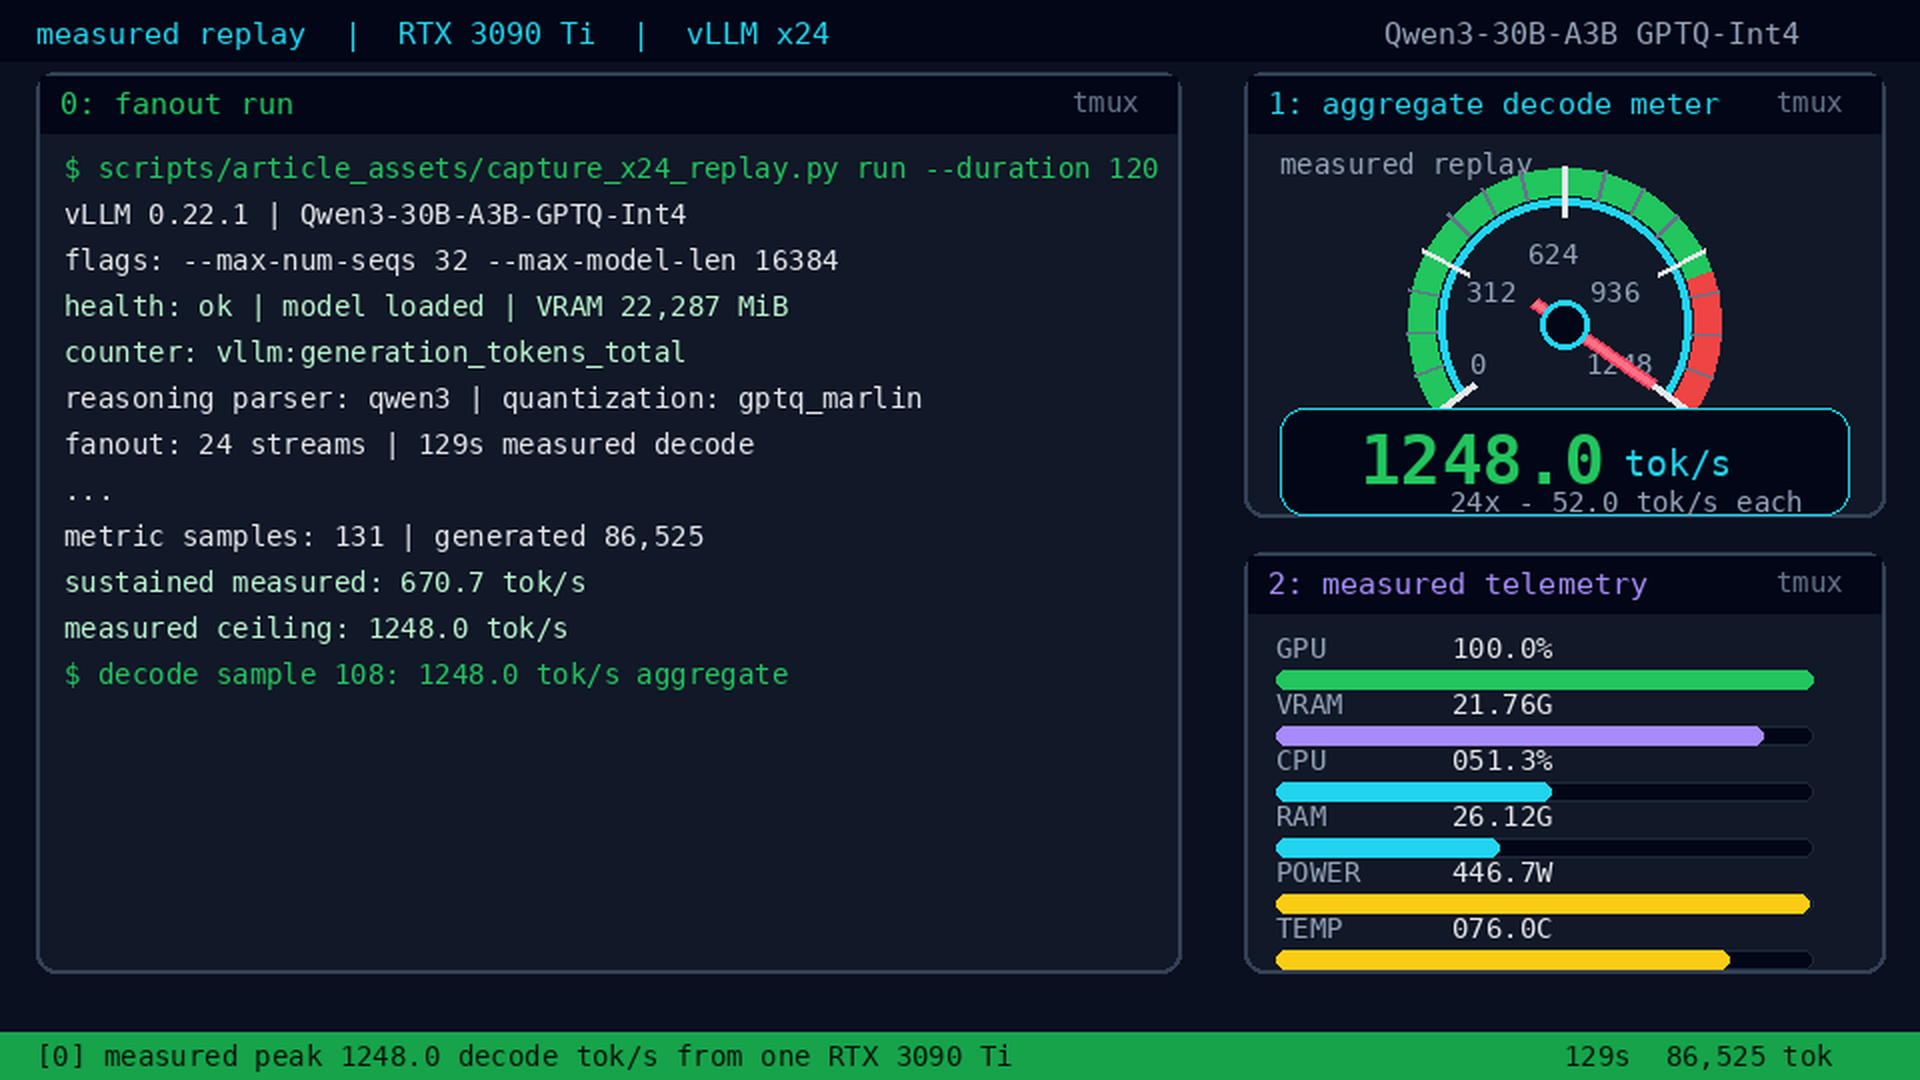
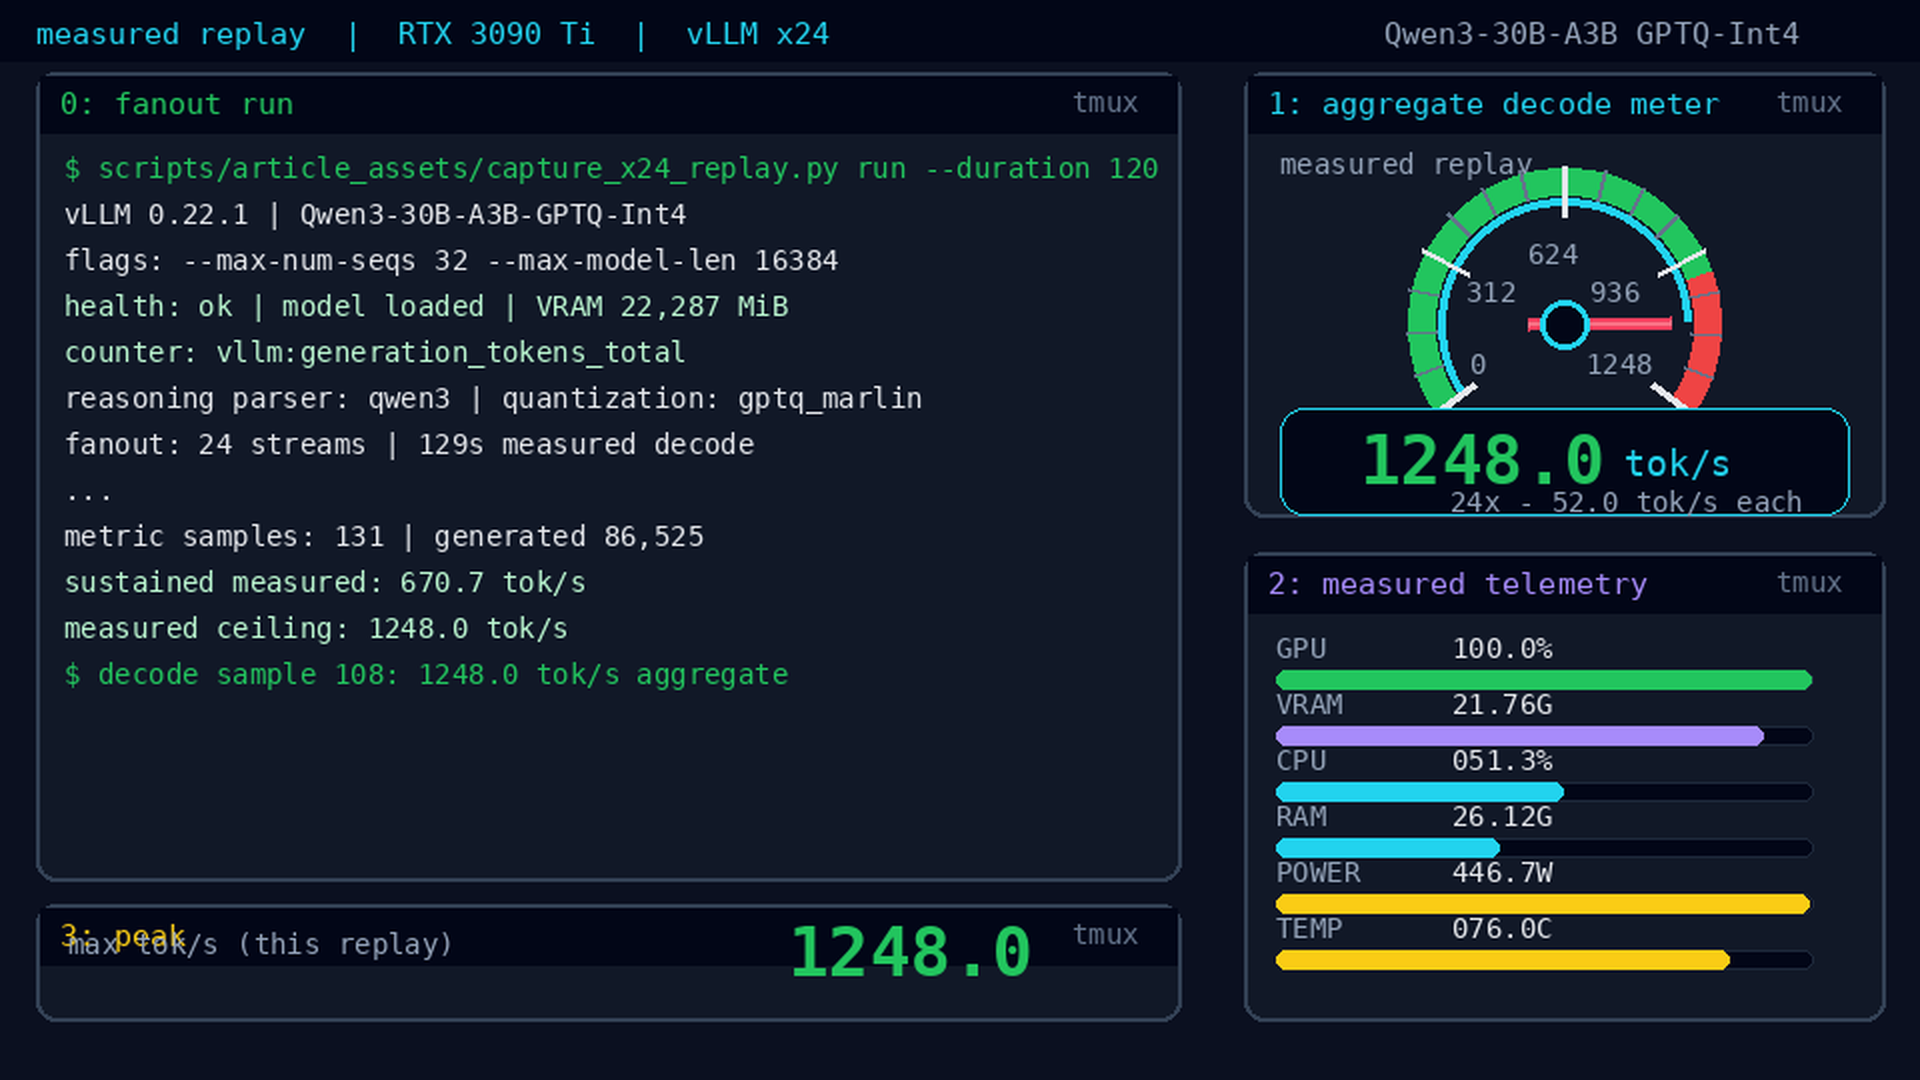
feat: smooth eased tachometer motion, running-max pane, no tmux footer
Critically-damped needle/bar easing between 1 Hz samples (4 sub-frames per
measured second, 30fps mp4, 15fps gif re-encoded at 720p); digital readout
and log line step in lockstep on raw samples only; new bottom-left peak pane
tracks the running measured max; caption discloses pacing and easing.

diff --git a/scripts/article_assets/render_800_toks_assets.py b/scripts/article_assets/render_800_toks_assets.py
@@ -137,10 +137,14 @@ def draw_meter(
     frame: int,
     cap: float,
     streams: int,
+    readout_tps: float | None = None,
 ) -> None:
+    # tps drives the needle (eased display value); readout_tps is the measured
+    # sample printed in the digital readout, so printed numbers are never eased.
     x1, y1, x2, y2 = box
     cap = max(cap, 1.0)
     tps = min(tps, cap)
+    readout_val = min(cap, tps if readout_tps is None else readout_tps)
 
     cx, cy = (x1 + x2) // 2, y1 + 126
     r = min((x2 - x1) // 3, 78)
@@ -181,12 +185,22 @@ def draw_meter(
     draw.line([tail_x, tail_y, nx, ny], fill="#fb7185", width=3)
     draw.ellipse([cx - 12, cy - 12, cx + 12, cy + 12], fill="#020617", outline=CYAN, width=3)
 
-    readout = f"{tps:05.1f}"
+    readout = f"{readout_val:05.1f}"
     read_box = [x1 + 18, y1 + 168, x2 - 18, y1 + 221]
     draw.rounded_rectangle(read_box, radius=12, fill="#020617", outline="#22d3ee66", width=1)
     draw.text((x1 + 58, y1 + 174), readout, font=F34B, fill=GREEN)
     draw.text((x1 + 190, y1 + 185), "tok/s", font=F18, fill=CYAN)
-    draw.text((x1 + 103, y1 + 207), f"{streams}x - {tps / streams:04.1f} tok/s each", font=F14, fill=MUTED)
+    draw.text((x1 + 103, y1 + 207), f"{streams}x - {readout_val / streams:04.1f} tok/s each", font=F14, fill=MUTED)
+
+
+def draw_max_pane(draw: ImageDraw.ImageDraw, box: tuple[int, int, int, int], run_max: float, is_new: bool) -> None:
+    # Running maximum of the measured per-second samples seen so far in the replay.
+    x1, y1, x2, y2 = box
+    draw.text((x1 + 16, y1 + 12), "max tok/s (this replay)", font=F14, fill=MUTED)
+    color = YELLOW if is_new else GREEN
+    draw.text((x2 - 196, y1 + 4), f"{run_max:06.1f}", font=F34B, fill=color)
+    if is_new:
+        draw.text((x2 - 40, y1 + 12), "NEW", font=F14, fill=YELLOW)
 
 
 def ease(t: float) -> float:
@@ -250,7 +264,14 @@ def draw_metric_bar(
     draw.rounded_rectangle([bx, by, bx + int(bw * max(0, min(frac, 1))), by + bh], radius=4, fill=color)
 
 
-def draw_telemetry(draw: ImageDraw.ImageDraw, box: tuple[int, int, int, int], row: dict[str, float | str]) -> None:
+def draw_telemetry(
+    draw: ImageDraw.ImageDraw,
+    box: tuple[int, int, int, int],
+    row: dict[str, float | str],
+    eased: dict[str, float] | None = None,
+) -> None:
+    # Text always shows the measured sample; the bar widths glide on the eased
+    # display values so motion is smooth without ever printing an unmeasured number.
     x1, y1, _x2, _y2 = box
     gpu = float(row["gpu_util_pct"])
     vram_mib = float(row["vram_used_mib"])
@@ -258,13 +279,14 @@ def draw_telemetry(draw: ImageDraw.ImageDraw, box: tuple[int, int, int, int], ro
     temp = float(row["temp_c"])
     cpu = float(row["cpu_util_pct"])
     ram = float(row["ram_used_gib"])
+    e = eased or {"gpu": gpu, "vram": vram_mib, "power": power, "temp": temp, "cpu": cpu, "ram": ram}
     metrics = [
-        ("GPU", f"{gpu:05.1f}%", gpu / 100, GREEN),
-        ("VRAM", f"{vram_mib / 1024:05.2f}G", vram_mib / 24564, PURPLE),
-        ("CPU", f"{cpu:05.1f}%", cpu / 100, CYAN),
-        ("RAM", f"{ram:05.2f}G", ram / 62.68, CYAN),
-        ("POWER", f"{power:05.1f}W", power / 450, YELLOW),
-        ("TEMP", f"{temp:05.1f}C", temp / 90, GREEN if temp < 75 else YELLOW),
+        ("GPU", f"{gpu:05.1f}%", e["gpu"] / 100, GREEN),
+        ("VRAM", f"{vram_mib / 1024:05.2f}G", e["vram"] / 24564, PURPLE),
+        ("CPU", f"{cpu:05.1f}%", e["cpu"] / 100, CYAN),
+        ("RAM", f"{ram:05.2f}G", e["ram"] / 62.68, CYAN),
+        ("POWER", f"{power:05.1f}W", e["power"] / 450, YELLOW),
+        ("TEMP", f"{temp:05.1f}C", e["temp"] / 90, GREEN if temp < 75 else YELLOW),
     ]
     y = y1 + 40
     for label, value, frac, color in metrics:
@@ -275,9 +297,10 @@ def draw_telemetry(draw: ImageDraw.ImageDraw, box: tuple[int, int, int, int], ro
 def render_demo(lines: list[str]) -> None:
     # 16:9, small enough for X/Twitter GIF upload while still readable in article.
     w, h = 960, 540
-    left = (18, 36, 590, 486)
+    left = (18, 36, 590, 440)
+    maxbox = (18, 452, 590, 510)
     rtop = (622, 36, 942, 258)
-    rbot = (622, 276, 942, 486)
+    rbot = (622, 276, 942, 510)
 
     series = load_replay_series()
     summary = load_capture_summary()
@@ -326,36 +349,67 @@ def render_demo(lines: list[str]) -> None:
 
     frames: list[Image.Image] = []
     n = len(series)
+    # Motion: SUB eased sub-frames per measured second. The needle and telemetry
+    # bars follow each new sample with a critically-damped chase (convex blend of
+    # measured values - they can never exceed the running measured range). All
+    # printed numbers step on the raw samples only.
+    SUB = 4
+    EASE_NEEDLE = 0.30
+    EASE_BARS = 0.22
+    display_tps = max(0.0, min(cap, float(series[0]["decode_tok_s"])))
+    eased_tel = {
+        "gpu": float(series[0]["gpu_util_pct"]),
+        "vram": float(series[0]["vram_used_mib"]),
+        "power": float(series[0]["power_w"]),
+        "temp": float(series[0]["temp_c"]),
+        "cpu": float(series[0]["cpu_util_pct"]),
+        "ram": float(series[0]["ram_used_gib"]),
+    }
+    run_max = 0.0
+    poster_master_index = {}
     for f in range(n):
         phase = f / (n - 1)
         row = series[f]
-        # The meter is capped to the measured ceiling from this capture.
-        tps = max(0, min(cap, float(row["decode_tok_s"])))
-
-        im = Image.new("RGB", (w, h), BG)
-        dr = ImageDraw.Draw(im)
-        dr.rectangle([0, 0, w, 30], fill="#020617")
-        dr.text((18, 8), "measured replay  |  RTX 3090 Ti  |  vLLM x24", font=F15, fill=CYAN)
-        dr.text((w - 268, 8), "Qwen3-30B-A3B GPTQ-Int4", font=F15, fill=MUTED)
-
-        draw_pane(dr, left, "0: fanout run", GREEN)
-        draw_pane(dr, rtop, "1: aggregate decode meter", CYAN)
-        draw_pane(dr, rbot, "2: measured telemetry", PURPLE)
+        sample_tps = max(0, min(cap, float(row["decode_tok_s"])))
+        new_max = sample_tps > run_max
+        run_max = max(run_max, sample_tps)
+        targets = {
+            "gpu": float(row["gpu_util_pct"]),
+            "vram": float(row["vram_used_mib"]),
+            "power": float(row["power_w"]),
+            "temp": float(row["temp_c"]),
+            "cpu": float(row["cpu_util_pct"]),
+            "ram": float(row["ram_used_gib"]),
+        }
 
         n_worker = int(max(0, (phase - 0.18)) / 0.70 * len(workers))
         n_worker = max(0, min(len(workers), n_worker))
         logs = base_log + workers[:n_worker]
         if 0.14 < phase < 0.95:
-            logs.append(f"$ decode sample {f + 1:03d}: {tps:05.1f} tok/s aggregate")
-        draw_text_lines(dr, left, logs, start_y=40, font=F14, max_lines=18)
+            logs.append(f"$ decode sample {f + 1:03d}: {sample_tps:05.1f} tok/s aggregate")
 
-        draw_meter(dr, rtop, tps, f, cap, streams)
-        draw_telemetry(dr, rbot, row)
+        for sub in range(SUB):
+            display_tps += (sample_tps - display_tps) * EASE_NEEDLE
+            for k in eased_tel:
+                eased_tel[k] += (targets[k] - eased_tel[k]) * EASE_BARS
 
-        dr.rectangle([0, h - 24, w, h], fill="#16a34a")
-        dr.text((18, h - 20), f"[0] measured peak {cap:.1f} decode tok/s from one RTX 3090 Ti", font=F14, fill="#03150a")
-        dr.text((w - 178, h - 20), f"{active_seconds}s  {total_tokens:,} tok", font=F14, fill="#03150a")
-        frames.append(im)
+            im = Image.new("RGB", (w, h), BG)
+            dr = ImageDraw.Draw(im)
+            dr.rectangle([0, 0, w, 30], fill="#020617")
+            dr.text((18, 8), "measured replay  |  RTX 3090 Ti  |  vLLM x24", font=F15, fill=CYAN)
+            dr.text((w - 268, 8), "Qwen3-30B-A3B GPTQ-Int4", font=F15, fill=MUTED)
+
+            draw_pane(dr, left, "0: fanout run", GREEN)
+            draw_pane(dr, maxbox, "3: peak", YELLOW)
+            draw_pane(dr, rtop, "1: aggregate decode meter", CYAN)
+            draw_pane(dr, rbot, "2: measured telemetry", PURPLE)
+
+            draw_text_lines(dr, left, logs, start_y=40, font=F14, max_lines=16)
+            draw_meter(dr, rtop, display_tps, f, cap, streams, readout_tps=sample_tps)
+            draw_max_pane(dr, maxbox, run_max, new_max and sub < SUB // 2)
+            draw_telemetry(dr, rbot, row, eased=eased_tel)
+            frames.append(im)
+        poster_master_index[f] = len(frames) - 1
 
     out_frames = [frame.resize((1920, 1080), Image.Resampling.LANCZOS) for frame in frames]
     poster_candidates = [
@@ -366,15 +420,17 @@ def render_demo(lines: list[str]) -> None:
         and float(row["power_w"]) >= 400
         and float(row["decode_tok_s"]) >= cap * 0.85
     ]
-    peak_frame = max(poster_candidates or range(len(series)), key=lambda i: float(series[i]["decode_tok_s"]))
-    out_frames[peak_frame].save(ASSET / "800-toks-tmux-demo-poster.png")
+    peak_row = max(poster_candidates or range(len(series)), key=lambda i: float(series[i]["decode_tok_s"]))
+    out_frames[poster_master_index[peak_row]].save(ASSET / "800-toks-tmux-demo-poster.png")
 
-    gif_frames = [out_frames[0]] * 6 + out_frames + [out_frames[-1]] * 10
-    gif_frames[0].save(
+    # GIF: every other sub-frame at 30ms -> ~16.5 fps with eased deltas (smooth),
+    # holds on first/last frame. MP4 below carries the full 30 fps version.
+    gif_seq = [out_frames[0]] * 8 + out_frames[::2] + [out_frames[-1]] * 14
+    gif_seq[0].save(
         ASSET / "800-toks-tmux-demo.gif",
         save_all=True,
-        append_images=gif_frames[1:],
-        duration=67,
+        append_images=gif_seq[1:],
+        duration=60,
         loop=0,
         optimize=True,
     )
@@ -389,7 +445,7 @@ def render_demo(lines: list[str]) -> None:
                 "ffmpeg",
                 "-y",
                 "-framerate",
-                "15",
+                "30",
                 "-i",
                 str(tmp_dir / "frame-%04d.png"),
                 "-vf",

diff --git a/docs/article/2026-06-800-toks-3090.md b/docs/article/2026-06-800-toks-3090.md
@@ -6,7 +6,7 @@ Not an autonomous multi-turn worker. A very fast single-shot fan-out engine.
 
 ![24-stream measured replay showing a fan-out log, tachometer, and telemetry at 670.7 sustained tok/s and 1,248.0 peak tok/s](assets/800-toks-tmux-demo.gif)
 
-*Measured replay from the x24 capture, played at 15× (one frame per captured second; 129 s compressed to ~9 s). 24 refill streams, 670.7 tok/s sustained, 1,248.0 tok/s peak, 52.0 tok/s per stream at the poster frame.*
+*Measured replay from the x24 cache-busted capture, played at ~7.5× (129 s in ~17 s). The needle and bars are eased between the 1 Hz samples; every printed number steps on a measured value. 670.7 tok/s sustained (zero-cache floor), 1,248.0 peak; the shared-prefix sustained number is 1,184 — see the sweep section.*
 
 **The goal**
 